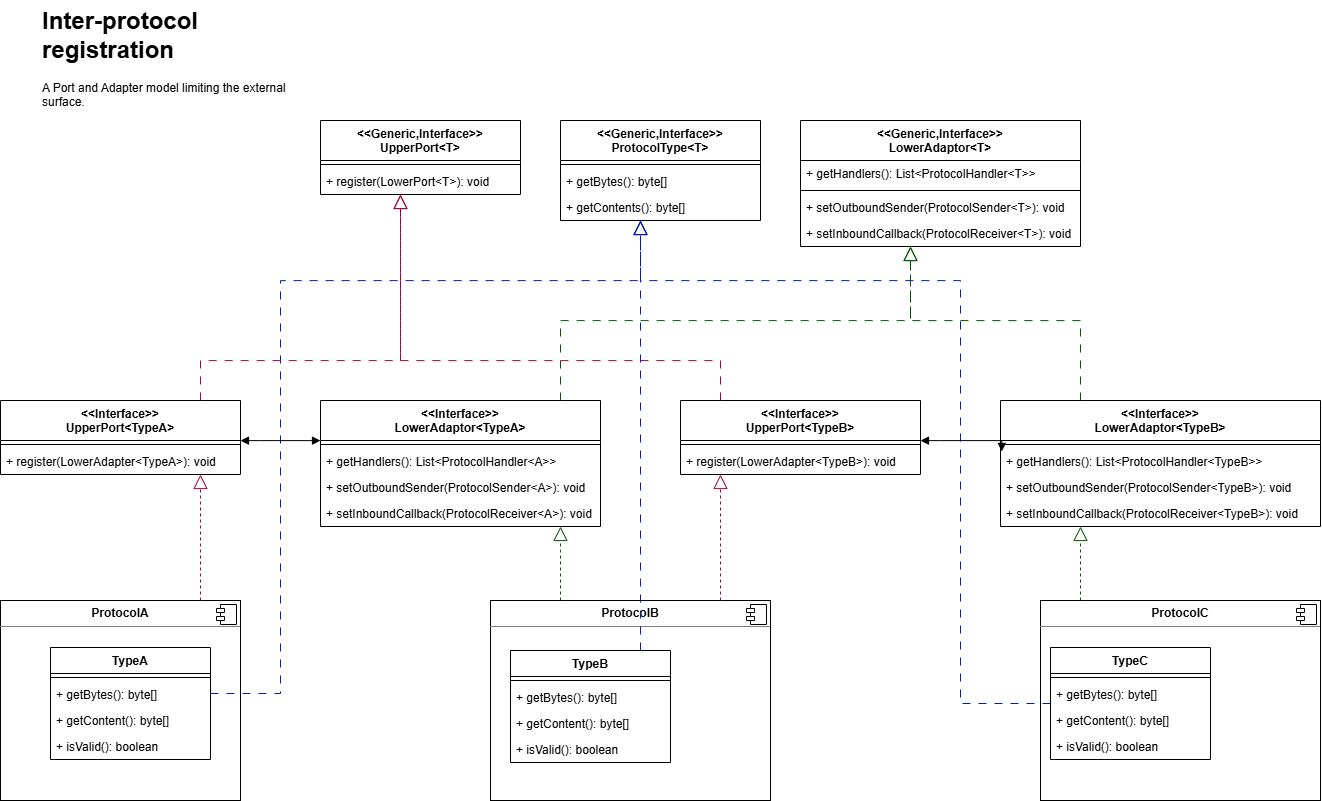
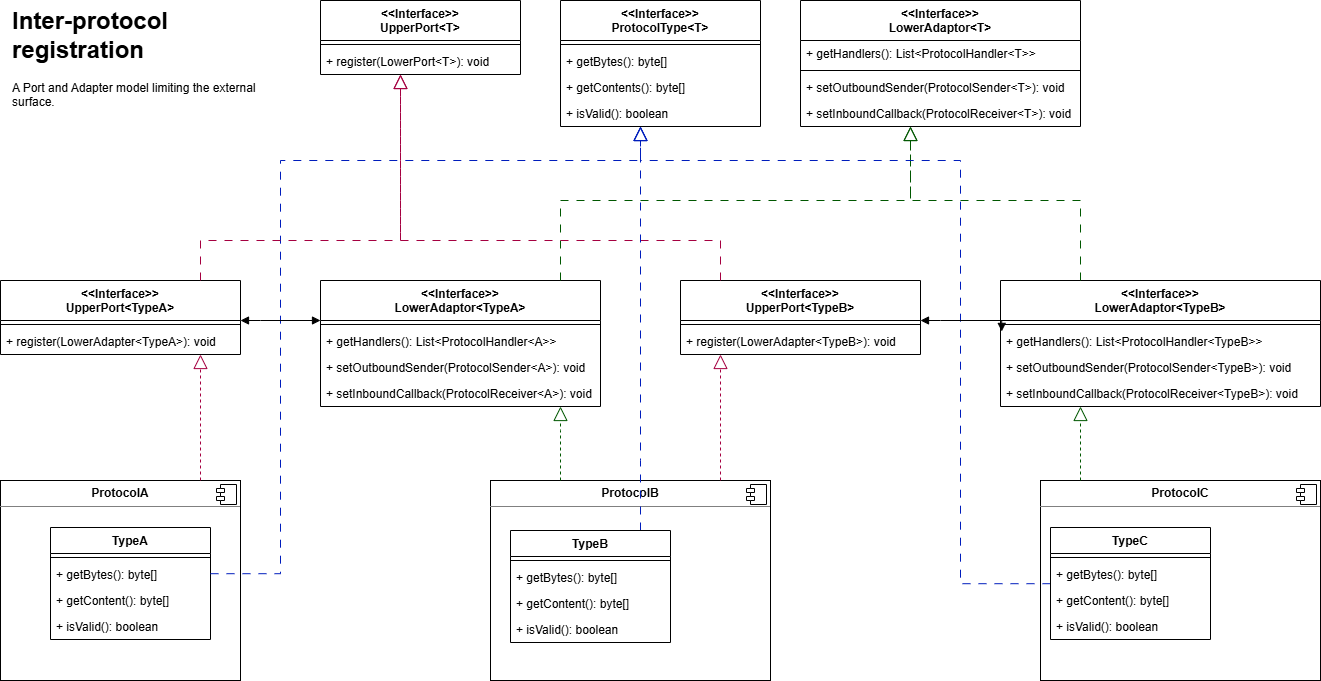
Update diagrams and readmes.

diff --git a/appliedprog/Week13.md b/appliedprog/Week13.md
@@ -6,6 +6,84 @@ As a software engineer I want to refactor my protocol stack with
 a common interface so that it is easier to add new protocols
 later.
 
+## Acceptance Criteria
+
+Scenario: Creation of protocol handler components
+
+* Given: A protocol type `B` and a lower level protocol type `A`
+* When: Protocol B's handler components are created
+* Then: The handlers can test if the container `a` of type `A` matches this protocol
+* And: The handlers can convert the type `a` to a container `b` of type `B`
+* And: the handlers can pass a tuple `(a,b)` to it's internal in-bound logic.
+
+Scenario: Creation of a protocol delegator components
+
+* Given: A protocol of type `B`
+* When: Protocol B's delegator component is created
+* Then: handlers accepting type `B` can be added
+
+Scenario: Operation of a protocol delegator components
+
+* Given: A delegator for type `B` with a set of handlers for type `B`
+* When: The delegator receives a container `b` of type `B`
+  * Then: The handlers are called one by one
+* When: A handler is called
+  * Then: It can indicate whether it can handle the container `b`
+* When: The handler can handle the container
+  * Then: The container is passed to the handler for processing
+  * And: No further handlers are called.
+* When: The handler cannot handle the container
+  * Then: The next handler is called
+* When: The handler indicates a malformed container
+  * Then: A error is logged
+  * And: Processing stops
+* When: The handler modifies the container
+  * Then: The modified container can be passed back to the delegator.
+* When: No handler match the container
+  * Then: An error is logged
+  * And: processing stops
+
+Scenario: Inbound processing
+
+* Given: A low level protocol A, and intermediate protocol B and a higher level protocol C
+* When: Protocols A's delegator calls Protocol B's handler
+* And: The handler can process the message
+*Then: The container `a` is converted to a container `b` of type `B`.
+  * Then: The tuple `(a, b)` is passed to its internal logic.
+* When: The internal logic passes a container `b` to its delegator
+  * Then: Protocol C handlers are called
+* When: A handler matches
+  * Then: a success message is logged.
+
+Scenario: Outbound processing
+
+* Given: A low level protocol A, and intermediate protocol B and a higher level protocol C
+* When: Protocol C is sent a container `c` of type `C`
+  * Then: the container is encapsulated in a container `b` of type `B`
+  * And: `b` is passed to Protocol B's sender
+* When: Protocol B's sender receives container `b`
+  * Then: It is passed to the outbound logic
+* When: The outbound logic receives the container
+  * Then: It is encapsulated in a container of type `A`.
+  * And: Passed to Protocol A's sender.
+* When: Protocol A's sender receives a message
+  * Then: A success message is logged.
+
+Scenario: Registration of a protocol
+
+* Given: a lower level protocol, A, and a higher level protocol B
+* When: Protocol B is register with Protocol A
+  * Then: B's handler are added to A's delegator
+  * And: Protocol B is given A's sender
+
+Scenario: Transmission after registration
+
+* Given: A low level protocol A, and intermediate protocol B and a higher level protocol C
+* When: Protocol B is registered with Protocol A
+* And: Protocol C is registered with Protocol B
+  * Then: The inbound logic works
+  * And: The outbound logic works
+
 ## Design
 
 A common pattern should now become apparent:
@@ -274,4 +352,12 @@ Several generic interfaces define behaviour for internal components.
 * `public class ProtocolDelegator<T extends ProtocolType> implements ProtocolReceiver<T>` the template method for delegation.
   * `public void receive(T protocolType)`
 
+## Example configuration
+
+A typical configuration of three protocols that meets the acceptance criteria consist of the following classes.
+
 ![operation](diagrams/week13%20operation.png)
+
+## Class Diagram
+
+![class diagram](diagrams/week13.png)
